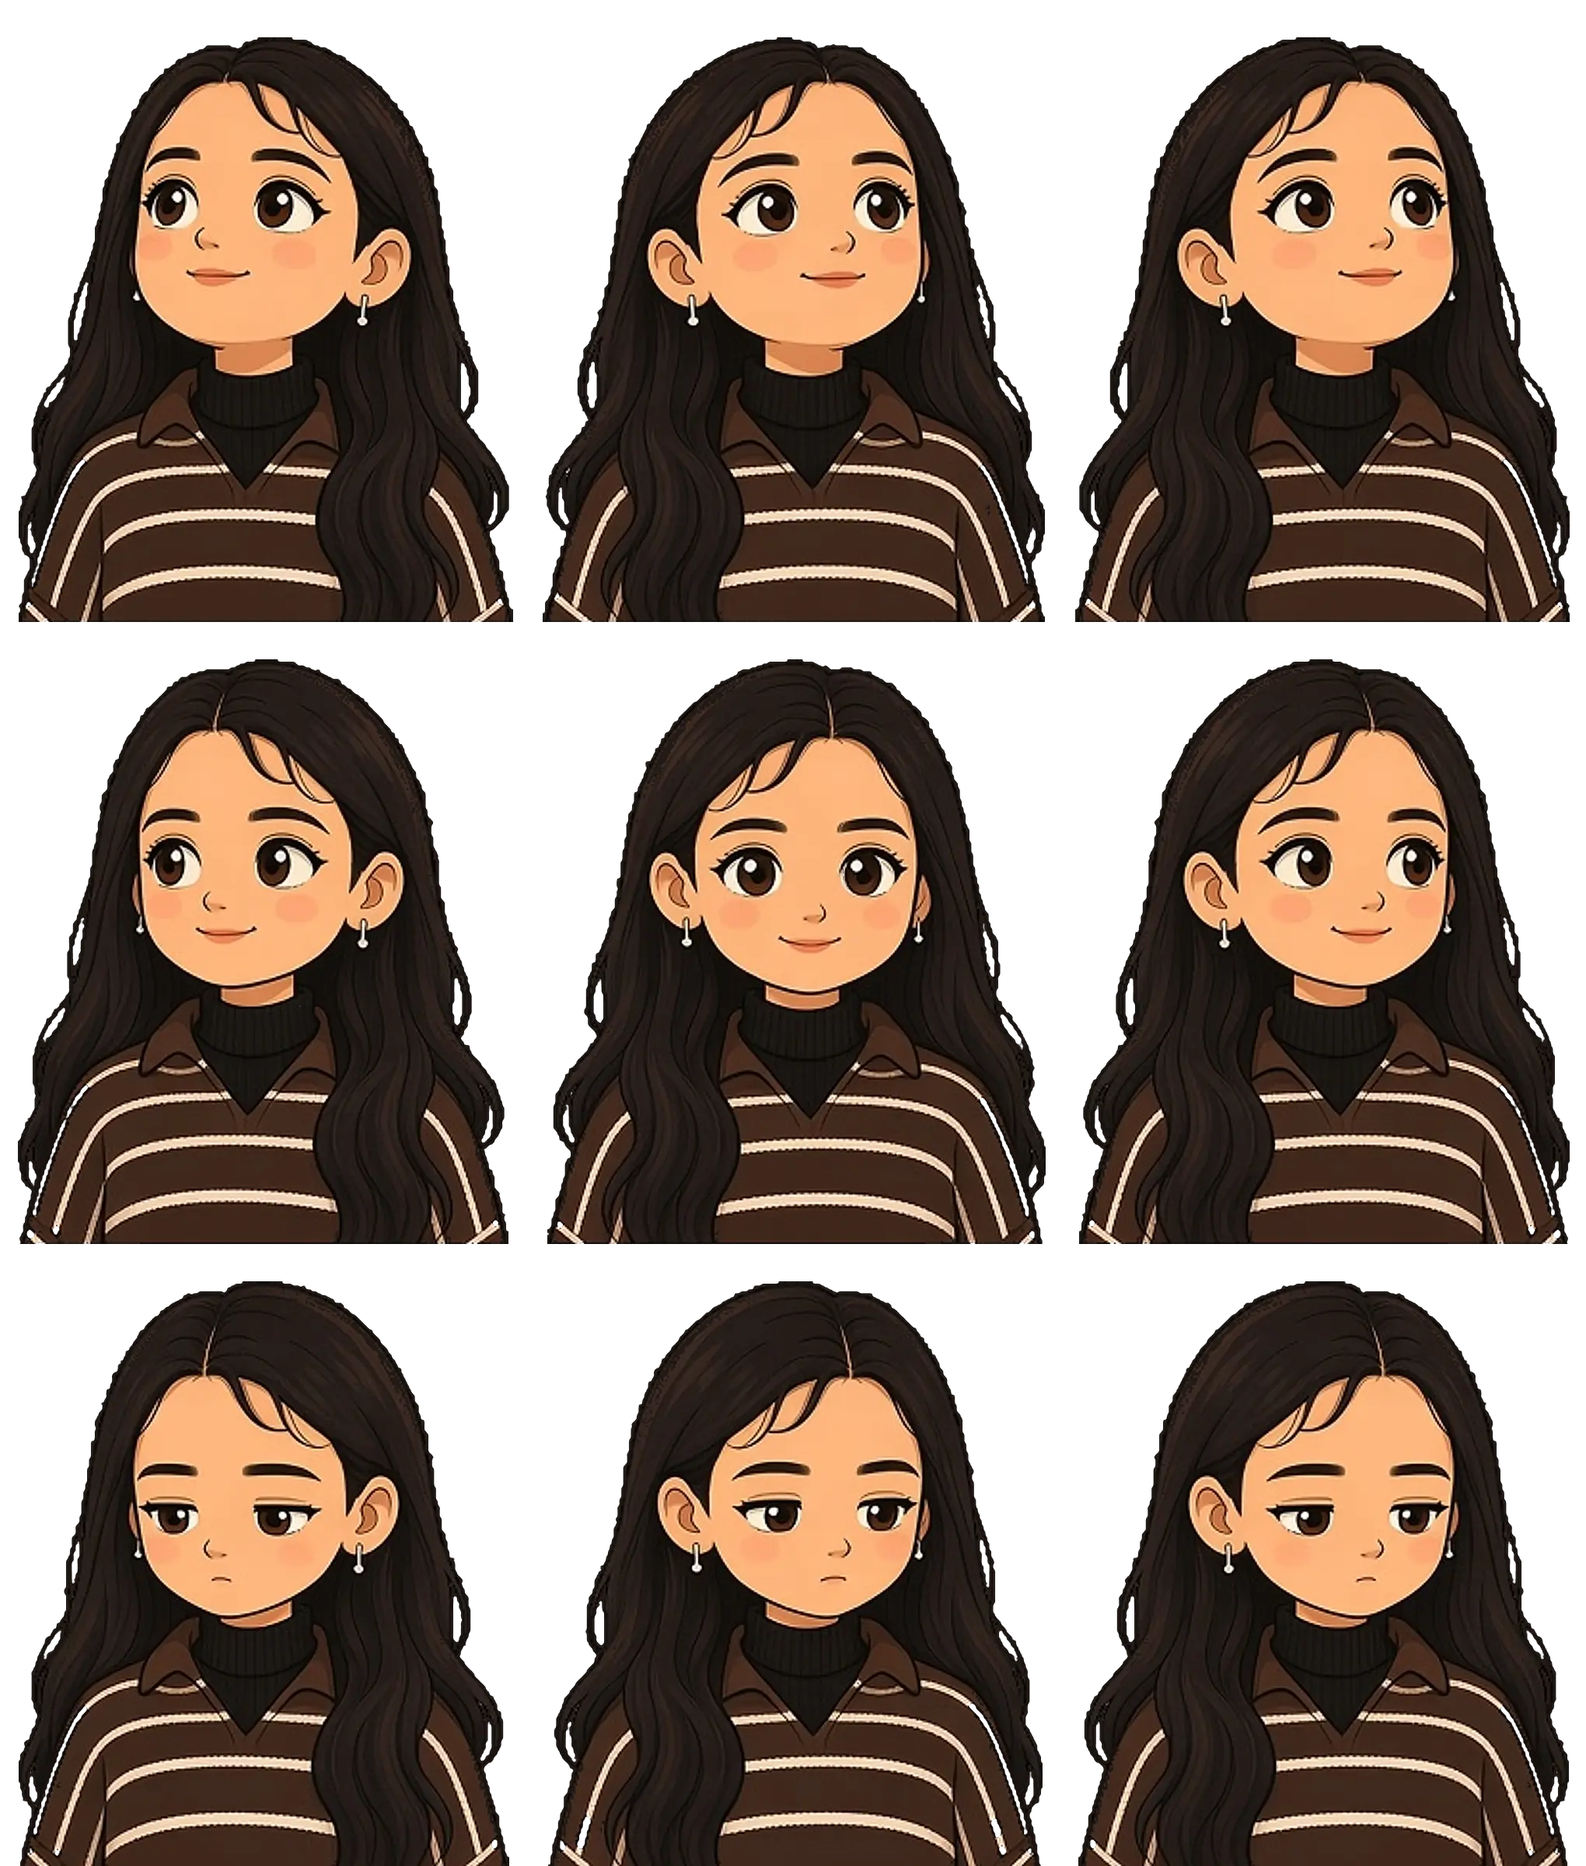
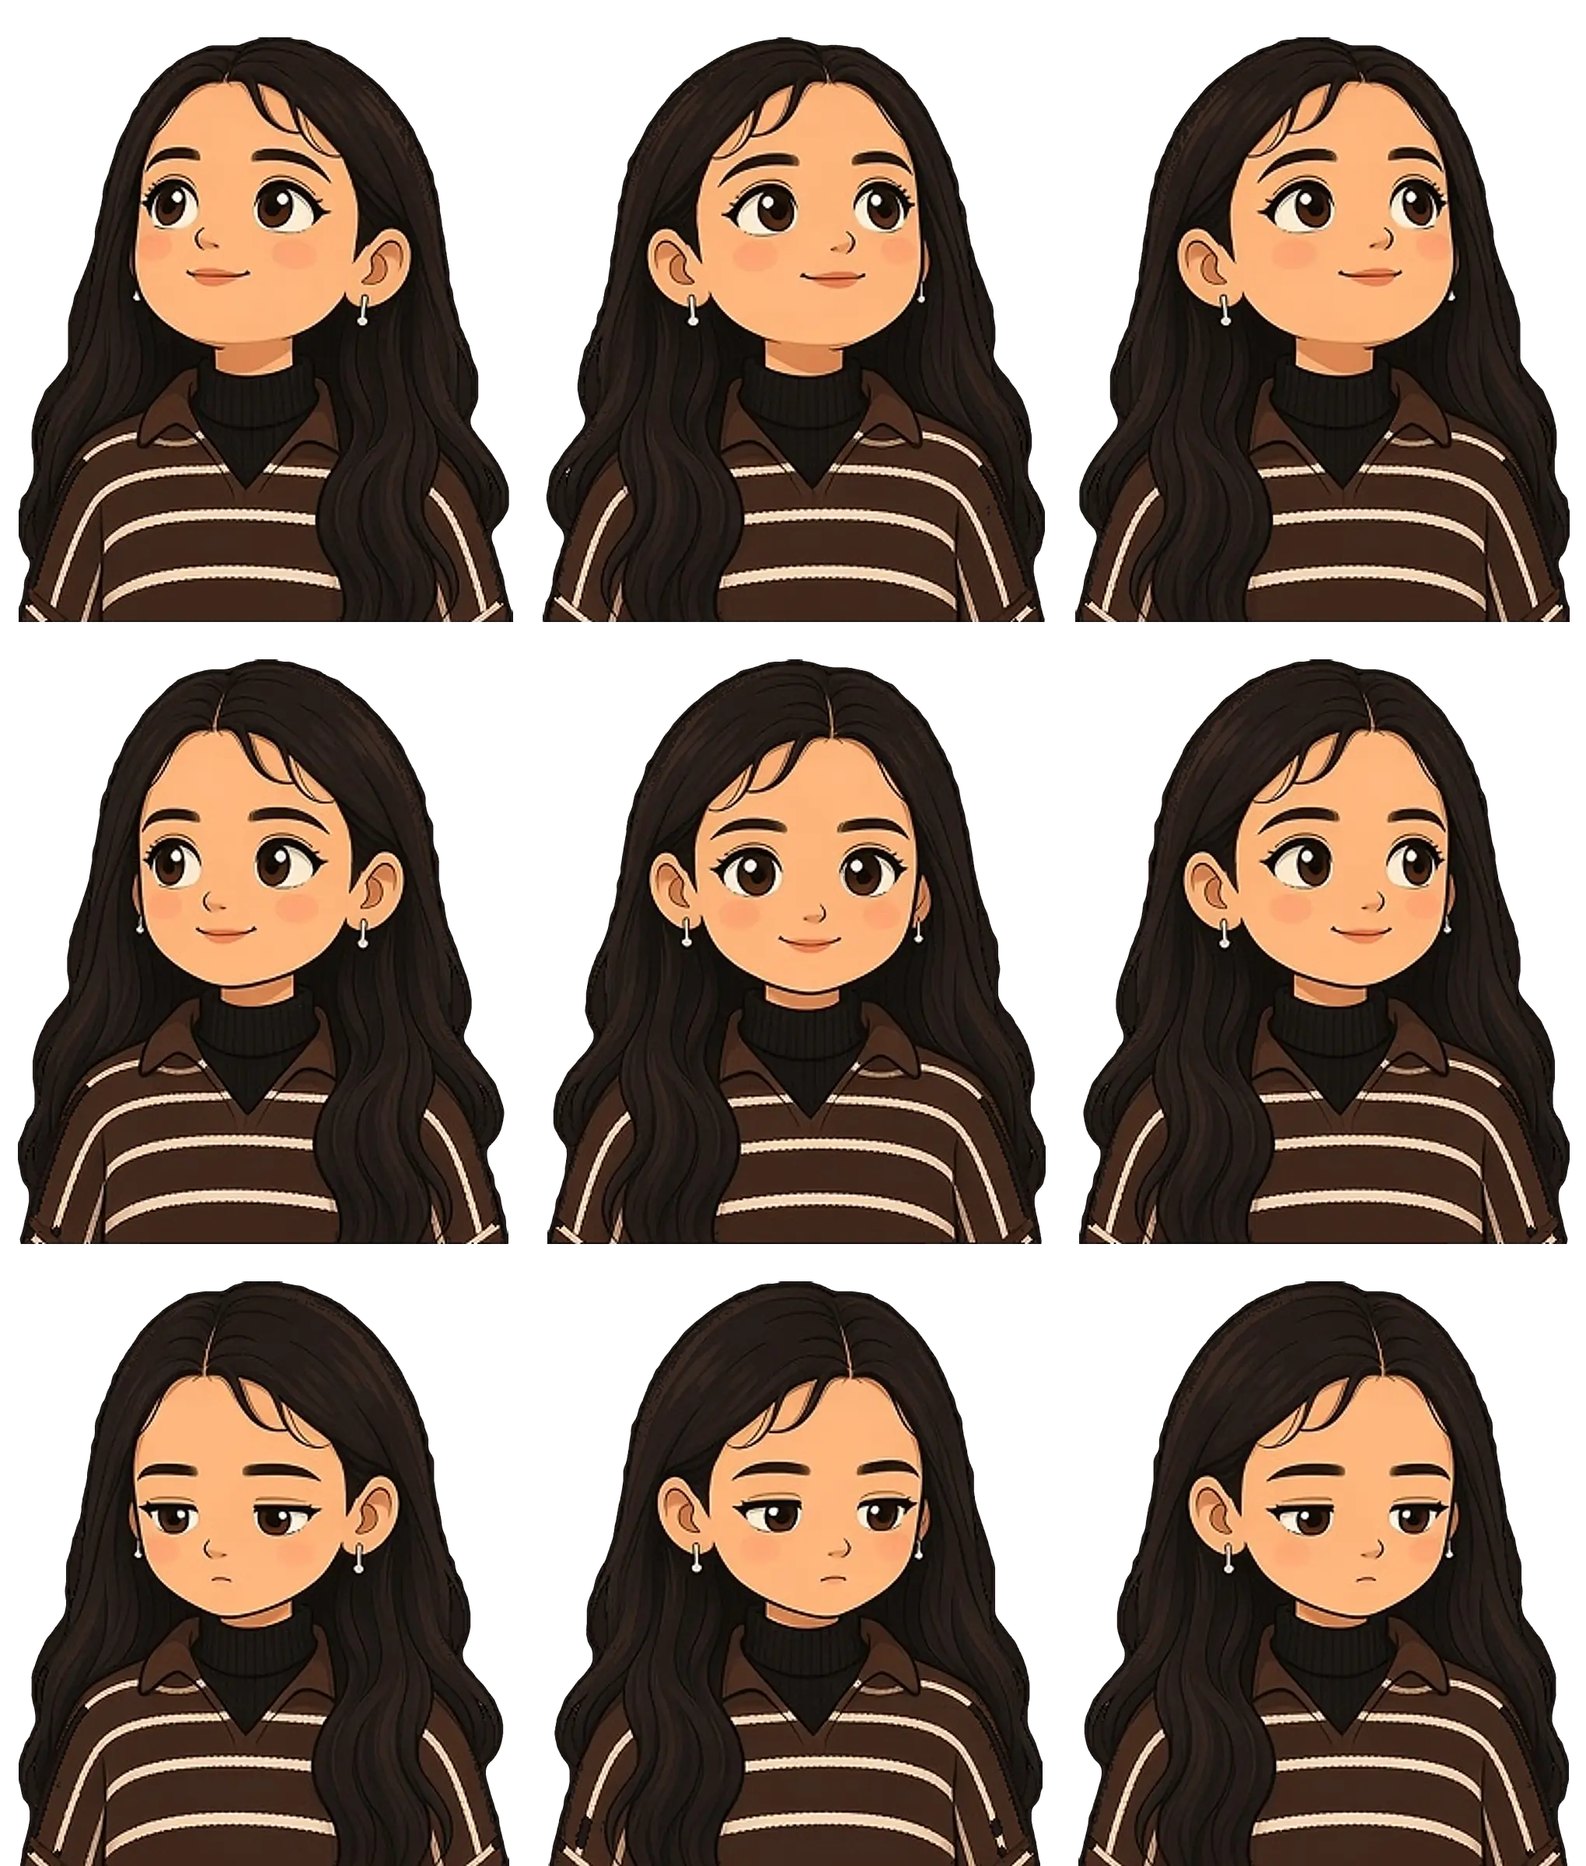
Mascot: smooth hair edge, clean bottom, product-minded thoughts
The silhouette's distance field is blurred more (2.2 from 0.7), so the sketchy outer line no longer shows as a serrated edge, and slivers of background between curls are closed and filled with hair colour instead of showing as holes. The bottom fade is cut to the last 3%: a fade over the bottom third washed the sweater into the light page like a glow. Every poke now gets a thought that matches her face, with cute product jokes; a mouse resting on her gets a passing musing; thoughts wrap balanced at 14rem. Cache token 20261015.

diff --git a/mascot.js b/mascot.js
@@ -540,26 +540,38 @@
 
   // ---- being poked ----------------------------------------------------------
   //
-  // Where she is touched decides how she reacts, and each line belongs to the
-  // face she is making while she says it. The first poke gets only the face;
-  // after that she talks, and if it keeps going she starts teasing back.
+  // Where she is touched decides how she reacts, and each thought belongs to
+  // the face she is making while she has it: a little cute, a little product
+  // manager. If the poking keeps going she starts teasing back.
 
   var SPOTS = {
-    nose: { face: GASP, lines: ['boop! …that was my nose', 'eep, my nose!', 'hey, not the nose!'] },
-    eye: { face: BLINK, lines: ['ow, my eye!', 'careful, I need those', 'can’t see you now…'] },
-    cheek: { face: SHY, lines: ['aww, you’re making me blush', 'oh… stop it', 'hehe, my cheek'] },
-    mouth: { face: GIGGLE, lines: ['pfft, hehe', 'mmf! hi!', 'hehe, I was about to say something'] },
-    forehead: { face: WINK, lines: ['boop received', 'knock knock, yes I’m home', 'tap tap, hi!'] },
-    hair: { face: GASP, lines: ['not the hair!', 'I just fixed that!', 'hey, my hair!'] },
-    chin: { face: GIGGLE, lines: ['hehe, ticklish there', 'that tickles!', 'hehe, stop it'] },
-    sweater: { face: GIGGLE, lines: ['hehe, that tickles!', 'careful, comfy sweater', 'hehe, I’m ticklish'] },
-    hello: { face: GRIN, lines: ['hi! you found me', 'hello there!', 'hehe, hi!'] },
+    nose: { face: GASP, lines: ['boop! a nose is not a button', 'eep! zero affordance there', 'hey! that’s not a CTA'] },
+    eye: { face: BLINK, lines: ['ow! I need those for user research', 'blinking… please hold', 'can’t see the roadmap now'] },
+    cheek: {
+      face: SHY,
+      lines: ['aww, you’re making me blush', 'stop it… my NPS just went up', 'blushing is a feature, not a bug'],
+    },
+    mouth: { face: GIGGLE, lines: ['mmf! hehe, I was mid-pitch', 'pfft! okay, you have my attention', 'hehe, that’s my demo voice'] },
+    forehead: { face: WINK, lines: ['boop! new idea unlocked', 'knock knock… a feature request?', 'tap tap, my brain says hi'] },
+    hair: { face: GASP, lines: ['not the hair! it’s in production', 'hey! that took three iterations', 'careful, it’s a stable release'] },
+    chin: { face: GIGGLE, lines: ['hehe, ticklish there!', 'hehe, you found an edge case', 'that tickles! logging it as a bug'] },
+    sweater: { face: GIGGLE, lines: ['hehe, that tickles!', 'careful, it’s my launch-day sweater', 'cozy sweater, shipped on time'] },
+    hello: { face: GRIN, lines: ['hi! you found the easter egg', 'hello, keyboard friend!', 'hehe, hi there!'] },
   };
 
   var TEASE = [
-    { face: THINKING, lines: ['hmm… is this a usability test?', 'you really like poking, huh?'] },
-    { face: SHY, lines: ['okay, I think you like me', 'you’re kind of sweet, you know'] },
-    { face: STARRY, lines: ['fine, you win. hi, friend!', 'okay okay, hello to you too!'] },
+    { face: THINKING, lines: ['hmm… is this a usability test?', 'so many clicks… A/B testing me?'] },
+    { face: SHY, lines: ['okay, engagement is way up', 'you really like me, huh?'] },
+    { face: STARRY, lines: ['fine, you win. let’s build something!', 'retention: 100%. hi, friend!'] },
+  ];
+
+  // What she thinks about when the pointer rests on her without poking.
+  var MUSINGS = [
+    'psst… you can poke me',
+    'hmm… what would the user do?',
+    'currently prioritising snacks',
+    'thinking in user stories…',
+    'is this the MVP or the dream?',
   ];
 
   // Measured on the centre frame, as fractions of the box: eyes at y .36–.44,
@@ -611,10 +623,6 @@
       nudge(e.clientX < rect.left + rect.width / 2 ? 0.7 : -0.7, -0.35);
     }
 
-    if (streak === 1) {
-      react(step.face, 1300);
-      return;
-    }
     var line = pickLine(step.lines);
     var hold = Math.min(3200, 1500 + line.length * 40);
     react(step.face, hold);
@@ -628,6 +636,33 @@
     if (now() - lastGreet < 15000 || reacting >= 0) return;
     lastGreet = now();
     react(GRIN, 1100);
+  });
+
+  // A pointer resting on her for a moment gets a passing thought, at most
+  // every 20s, and never while she is already reacting.
+  var museTimer = 0;
+  var lastMuse = 0;
+
+  function waitToMuse() {
+    clearTimeout(museTimer);
+    museTimer = setTimeout(function () {
+      if (reacting >= 0 || now() - lastMuse < 20000 || now() - lastPokeAt < 4000) return;
+      lastMuse = now();
+      var line = pickLine(MUSINGS);
+      var hold = Math.min(3200, 1500 + line.length * 40);
+      react(THINKING, hold);
+      say(line, hold);
+    }, 2200);
+  }
+
+  el.addEventListener('pointermove', function (e) {
+    if (e.pointerType === 'mouse') waitToMuse();
+  });
+  el.addEventListener('pointerdown', function () {
+    clearTimeout(museTimer);
+  });
+  el.addEventListener('pointerleave', function () {
+    clearTimeout(museTimer);
   });
 
   // Tickle: the pointer reversing direction quickly several times over her.

diff --git a/atelier.css b/atelier.css
@@ -776,9 +776,10 @@ html.atelier .atelier-mascot:focus-visible {
    here: one would restart on every write and stutter. The tilt pivots at the
    base of the bust, like a person turning from the shoulders, and is only
    non-zero while she is moving, so the picture is never left rotated.
-   The bottom edge fades so the cut-off sweater does not end in a hard line.
-   The fade is eased rather than linear: a straight ramp starts and stops
-   abruptly, and both ends showed as faint horizontal bands across the knit. */
+   The bottom edge softens over its last few pixels only, so the cut-off
+   sweater ends clean but not razor-sharp. Any longer fade washed the cream
+   stripes into the page, which read as a hazy glow under her on the light
+   theme. */
 html.atelier .atelier-mascot-layer {
   position: absolute;
   inset: 0;
@@ -792,26 +793,8 @@ html.atelier .atelier-mascot-layer {
      picture was redrawn a different way at the start and end of every fade
      and visibly shimmered. */
   will-change: opacity, transform;
-  -webkit-mask-image: linear-gradient(
-    to bottom,
-    #000 68%,
-    rgba(0, 0, 0, 0.94) 74%,
-    rgba(0, 0, 0, 0.8) 80%,
-    rgba(0, 0, 0, 0.58) 86%,
-    rgba(0, 0, 0, 0.32) 92%,
-    rgba(0, 0, 0, 0.1) 97%,
-    transparent 100%
-  );
-  mask-image: linear-gradient(
-    to bottom,
-    #000 68%,
-    rgba(0, 0, 0, 0.94) 74%,
-    rgba(0, 0, 0, 0.8) 80%,
-    rgba(0, 0, 0, 0.58) 86%,
-    rgba(0, 0, 0, 0.32) 92%,
-    rgba(0, 0, 0, 0.1) 97%,
-    transparent 100%
-  );
+  -webkit-mask-image: linear-gradient(to bottom, #000 97%, rgba(0, 0, 0, 0.55) 98.6%, transparent 100%);
+  mask-image: linear-gradient(to bottom, #000 97%, rgba(0, 0, 0, 0.55) 98.6%, transparent 100%);
 }
 
 /* Near-black hair against the near-black dark page loses its silhouette, so a
@@ -847,12 +830,12 @@ html.atelier body.dark-theme .atelier-mascot::before {
    scaling the picture continuously kept it permanently resampled and soft. */
 html.atelier .atelier-mascot-look,
 html.atelier .atelier-mascot-layer.is-look {
-  background-image: url('mascots/deepika-directions.webp?v=20261014');
+  background-image: url('mascots/deepika-directions.webp?v=20261015');
 }
 
 html.atelier .atelier-mascot-react,
 html.atelier .atelier-mascot-layer.is-react {
-  background-image: url('mascots/deepika-reactions.webp?v=20261014');
+  background-image: url('mascots/deepika-reactions.webp?v=20261015');
 }
 
 html.atelier .atelier-mascot-react {
@@ -867,8 +850,8 @@ html.atelier .atelier-mascot-react {
    underneath; an oval reached the jaw and showed a second chin. */
 html.atelier .atelier-mascot-face {
   opacity: 0;
-  -webkit-mask-image: url('mascots/deepika-face-mask.png?v=20261014');
-  mask-image: url('mascots/deepika-face-mask.png?v=20261014');
+  -webkit-mask-image: url('mascots/deepika-face-mask.png?v=20261015');
+  mask-image: url('mascots/deepika-face-mask.png?v=20261015');
   -webkit-mask-size: 300% 300%;
   mask-size: 300% 300%;
   -webkit-mask-repeat: no-repeat;
@@ -895,7 +878,10 @@ html.atelier .atelier-mascot-bubble {
   font-weight: 500;
   line-height: 1.35;
   letter-spacing: 0.005em;
-  white-space: nowrap;
+  text-align: center;
+  text-wrap: balance;
+  width: max-content;
+  max-width: 14rem;
   pointer-events: none;
   opacity: 0;
   transform: translate(-10px, 12px) scale(0.8) rotate(-4deg);

diff --git a/index.html b/index.html
@@ -30,11 +30,11 @@
   <!-- One shared version token for every local asset. Bump it in both HTML
        files whenever any CSS or JS changes. Per-asset tokens drifted out of
        sync previously, which can serve new CSS against old JavaScript. -->
-  <link rel="stylesheet" href="base.css?v=20261014">
-  <link rel="stylesheet" href="atelier.css?v=20261014">
-  <link rel="stylesheet" href="motion.css?v=20261014">
+  <link rel="stylesheet" href="base.css?v=20261015">
+  <link rel="stylesheet" href="atelier.css?v=20261015">
+  <link rel="stylesheet" href="motion.css?v=20261015">
   <noscript><style>.fx-ch>span{transform:none!important}.home-kicker,.home-subtitle,.home-desc,.home-who,.home-btns,.home-rotate,.hero-rule{opacity:1!important}.home-photo{filter:none!important;transform:rotate(-3.5deg)!important}</style></noscript>
-  <script src="portfolio-lock.js?v=20261014" defer></script>
+  <script src="portfolio-lock.js?v=20261015" defer></script>
 </head>
 <body>
     <script>
@@ -1275,10 +1275,10 @@
   <script src="https://cdn.jsdelivr.net/npm/gsap@3.12.7/dist/gsap.min.js" defer></script>
   <script src="https://cdn.jsdelivr.net/npm/gsap@3.12.7/dist/ScrollTrigger.min.js" defer></script>
   <script src="https://cdn.jsdelivr.net/npm/lenis@1.1.20/dist/lenis.min.js" defer></script>
-  <script src="contact-form.js?v=20261014" defer></script>
-  <script src="theme-toggle.js?v=20261014" defer></script>
-  <script src="script.js?v=20261014" defer></script>
-  <script src="motion.js?v=20261014" defer></script>
-  <script src="mascot.js?v=20261014" defer></script>
+  <script src="contact-form.js?v=20261015" defer></script>
+  <script src="theme-toggle.js?v=20261015" defer></script>
+  <script src="script.js?v=20261015" defer></script>
+  <script src="motion.js?v=20261015" defer></script>
+  <script src="mascot.js?v=20261015" defer></script>
 </body>
 </html>

diff --git a/my-story.html b/my-story.html
@@ -26,9 +26,9 @@
   <link rel="stylesheet" href="https://fonts.googleapis.com/css2?family=Fraunces:opsz,wght@9..144,500;9..144,600;9..144,700&family=Outfit:wght@400;500;600;700&display=swap">
   <link rel="preload" as="image" href="ProfilePhoto.webp">
   <!-- Keep this token identical to index.html. -->
-  <link rel="stylesheet" href="base.css?v=20261014">
-  <link rel="stylesheet" href="atelier.css?v=20261014">
-  <link rel="stylesheet" href="motion.css?v=20261014">
+  <link rel="stylesheet" href="base.css?v=20261015">
+  <link rel="stylesheet" href="atelier.css?v=20261015">
+  <link rel="stylesheet" href="motion.css?v=20261015">
 </head>
 <body class="my-story-page">
   <script>
@@ -334,10 +334,10 @@
   <script src="https://cdn.jsdelivr.net/npm/gsap@3.12.7/dist/gsap.min.js" defer></script>
   <script src="https://cdn.jsdelivr.net/npm/gsap@3.12.7/dist/ScrollTrigger.min.js" defer></script>
   <script src="https://cdn.jsdelivr.net/npm/lenis@1.1.20/dist/lenis.min.js" defer></script>
-  <script src="script.js?v=20261014" defer></script>
-  <script src="theme-toggle.js?v=20261014" defer></script>
-  <script src="motion.js?v=20261014" defer></script>
+  <script src="script.js?v=20261015" defer></script>
+  <script src="theme-toggle.js?v=20261015" defer></script>
+  <script src="motion.js?v=20261015" defer></script>
   <script src="https://cdn.jsdelivr.net/npm/page-flip@2.0.7/dist/js/page-flip.browser.js" defer></script>
-  <script src="story-book.js?v=20261014" defer></script>
+  <script src="story-book.js?v=20261015" defer></script>
 </body>
 </html>

diff --git a/README.md b/README.md
@@ -77,7 +77,7 @@ GSAP 3.12.7, ScrollTrigger 3.12.7, Lenis 1.1.20, page-flip 2.0.7, and
 ## Cache busting
 
 Every stylesheet and script is referenced with a **single shared** `?v=` token
-(currently `20261014`; the mascot sheet URLs in `atelier.css` carry it too).
+(currently `20261015`; the mascot sheet URLs in `atelier.css` carry it too).
 When you change any CSS, JS or mascot sheet, bump that token —
 in both `index.html` and `my-story.html`.
 
@@ -134,19 +134,24 @@ It is two 3×3 sprite sheets in `mascots/`:
   scrubs over her, a friendly face per click, sometimes starry when a link is
   hovered). The table at the top of `mascot.js` is the full list.
 
-Where she is poked decides how she reacts: nose (gasp, "boop! …that was my
-nose"), eyes (eyes shut, "ow, my eye!"), cheeks (shy, "aww, you're making me
-blush"), mouth, forehead, hair (gasp, "not the hair!"), chin and sweater
-(giggle, "hehe, that tickles!"). The spots are measured on the centre frame;
-see `spotAt` in `mascot.js`. The first poke gets only the face. From the second
-(pokes under 1.6s apart) she says a line that belongs to the face she is making,
-in a thought cloud whose words drift in one by one. The cloud's outline is
+Where she is poked decides how she reacts, and every poke gets a thought that
+belongs to the face she is making, a little cute and a little product manager:
+nose (gasp, "boop! a nose is not a button"), eyes (eyes shut, "blinking…
+please hold"), cheeks (shy, "blushing is a feature, not a bug"), mouth,
+forehead (wink, "boop! new idea unlocked"), hair (gasp, "not the hair! it's in
+production"), chin and sweater (giggle, "hehe, you found an edge case"). The
+spots are measured on the centre frame; see `spotAt` in `mascot.js`. From the
+fifth quick poke (under 1.6s apart) she teases back (thinking: "hmm… is this a
+usability test?", then shy: "okay, engagement is way up", then starry:
+"retention: 100%. hi, friend!"). A mouse resting on her for 2.2s gets a passing
+thought ("currently prioritising snacks"), at most every 20s. A spot runs
+through all its lines before repeating one. Each poke also gives her a small
+flinch away from the finger.
+
+Thoughts appear in a cloud whose words drift in one by one. Its outline is
 drawn around each line (`cloudPath`: arcs bulging out between points spaced
 round a superellipse, seeded by the text), two puffs trail down to her head and
-pop in first, and the cloud floats gently while it stays. From the fifth she starts teasing
-back (thinking: "hmm… is this a usability test?", then shy, then starry: "fine,
-you win"). A spot runs through all its lines before repeating one. Each poke
-also gives her a small flinch away from the finger.
+pop in first, and the cloud floats gently while it stays.
 
 Every reaction frame faces straight out. So the reactions she starts herself
 (blinks, starry) only happen while she is already looking straight out, and
@@ -251,6 +256,15 @@ sharpening made it jagged; blurring and re-contrasting the alpha only softened
 the steps. Instead the script builds a signed distance field of the cut-out,
 upscales that, and cuts it at its midpoint with a one-pixel ramp, the way fonts
 are rendered from distance fields. Only the colour channels are sharpened.
+The field is blurred (sigma 2.2 source pixels) before upscaling, so the bumps
+of the model's sketchy outer line become one smooth curve; at 0.7 the hair kept
+a serrated edge that looked pixelated on the light page. Before that, the
+silhouette is closed by 3 source pixels: slivers of background between curls
+were left as holes and bites along the hair, and are filled with hair colour.
+
+The bottom of the sweater softens over only its last 3%. A fade over the bottom
+third washed the cream stripes into the page and read as a hazy glow under her
+on the light theme.
 
 The model will not draw a head turned to the left, so the left column is the
 right column mirrored. The script also removes the cream background (edge flood
